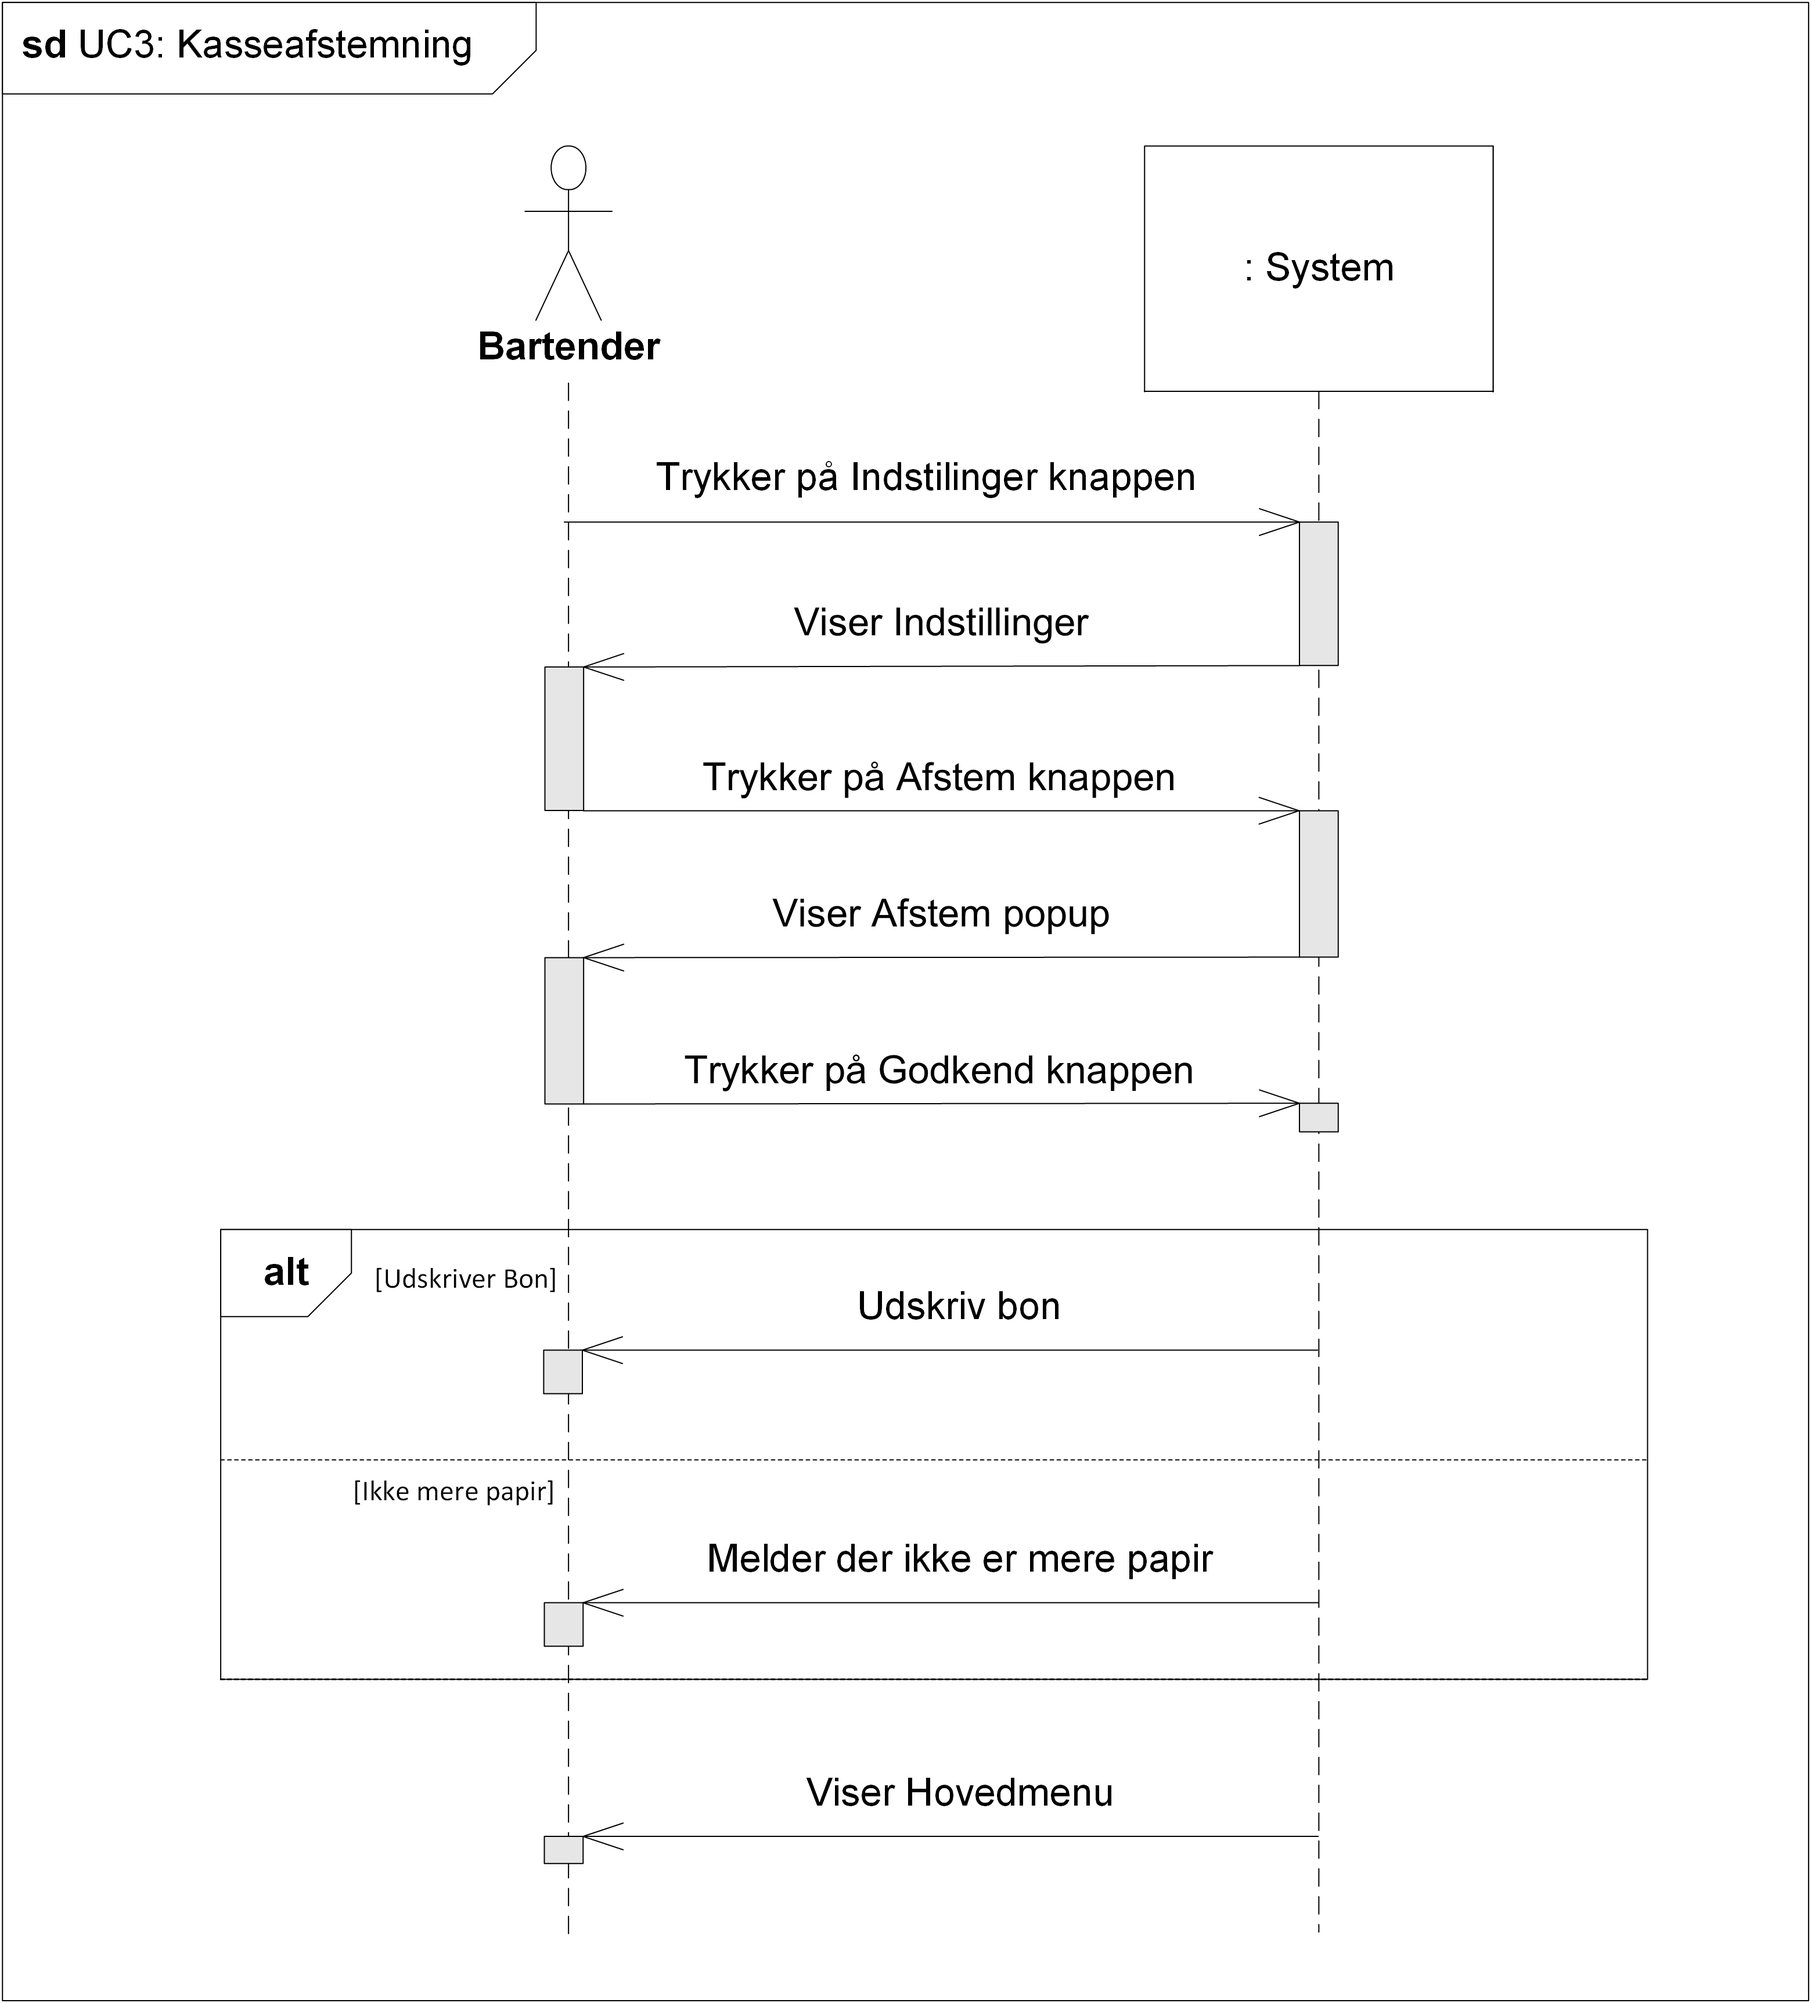
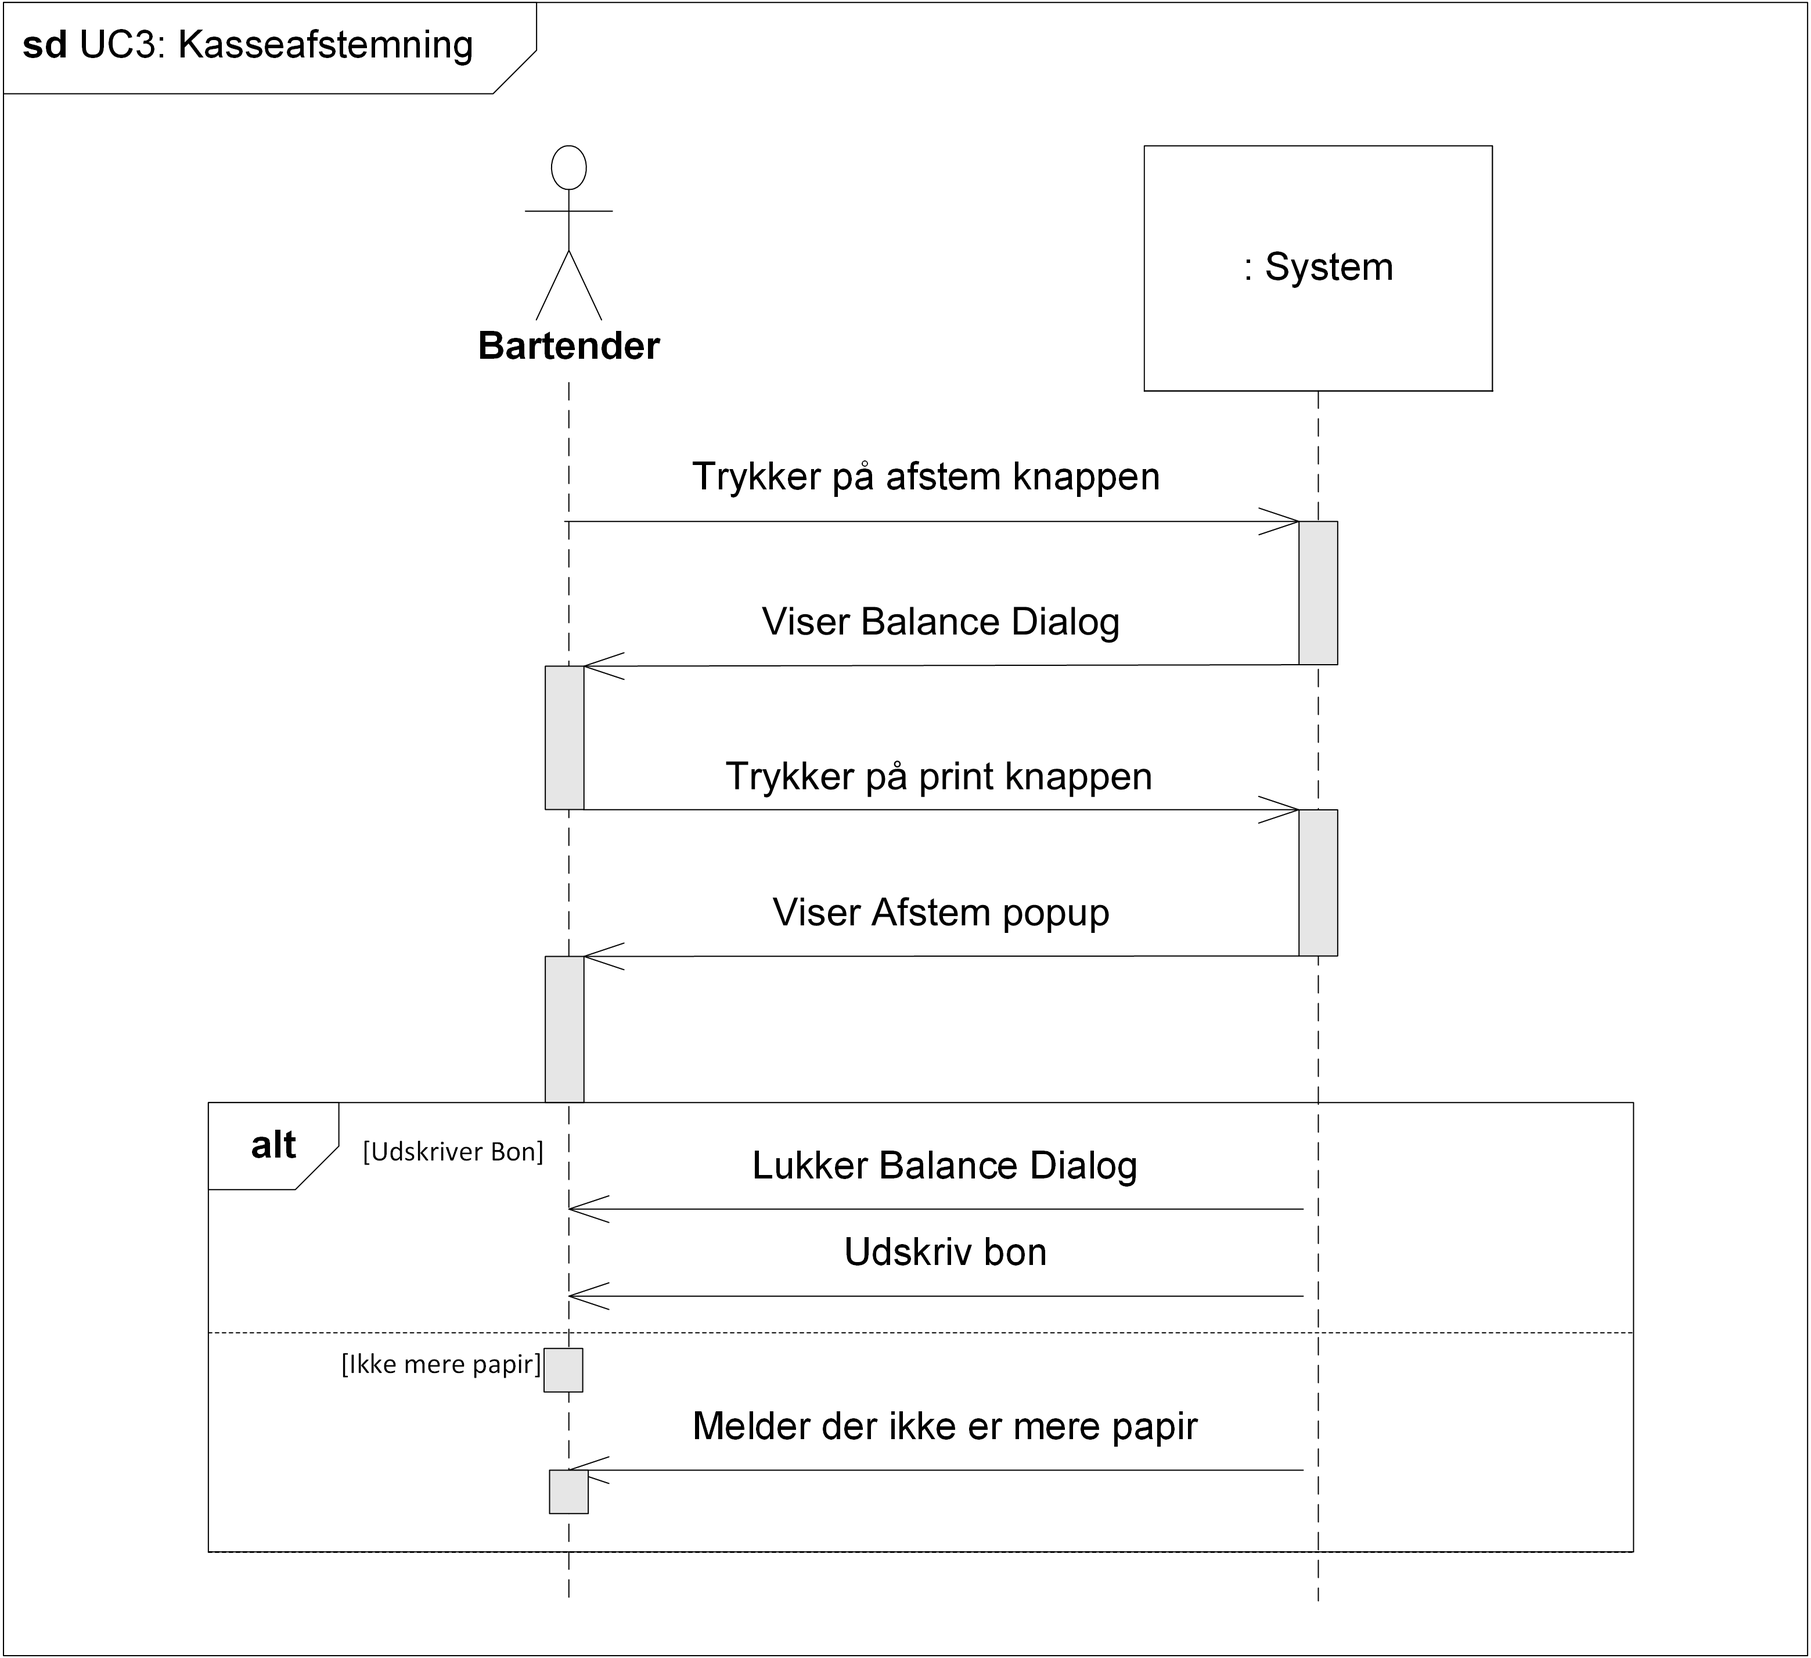
Overordende Use Cases
1. Har rettet overordnede sekvensdiagrammer til for UC2 og UC3

diff --git a/Projektdokumentation/Kravspecifikation/UseCases/UseCase03.tex b/Projektdokumentation/Kravspecifikation/UseCases/UseCase03.tex
@@ -22,7 +22,7 @@ Denne Use Case beskriver hvordan der udskrives afstemning af kassen forløber ve
 
 %Main Success Scenario: A typical, unconditional happy path scenario of success.
 \scenario{Hovedscenarie:}{
-	\item Bartender vælger afstem knappen
+	\item Bartender trykker på afstem knappen
 	\item System viser balanceDialog
 	\item Bartender trykker på print knappen\newline
 	[Extension 3.1: Bartender lukker dialogboksen]
